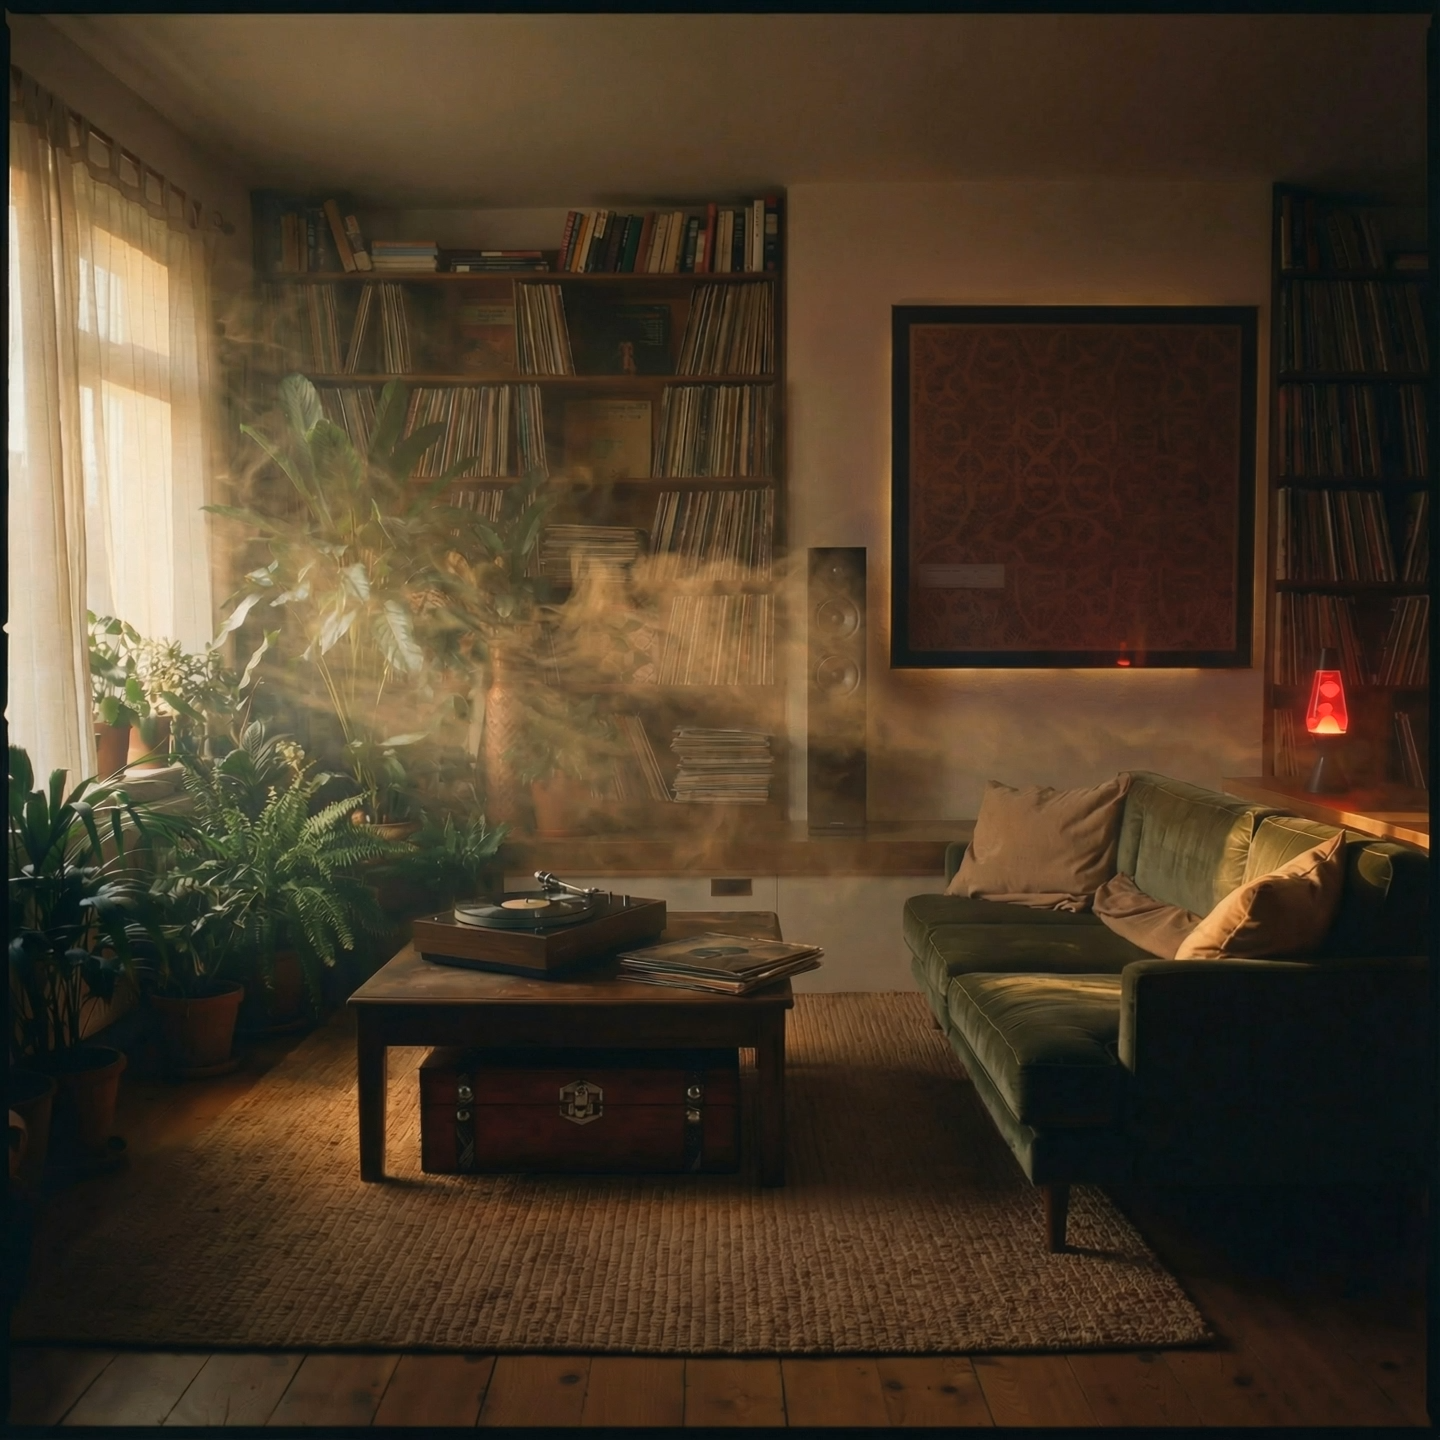
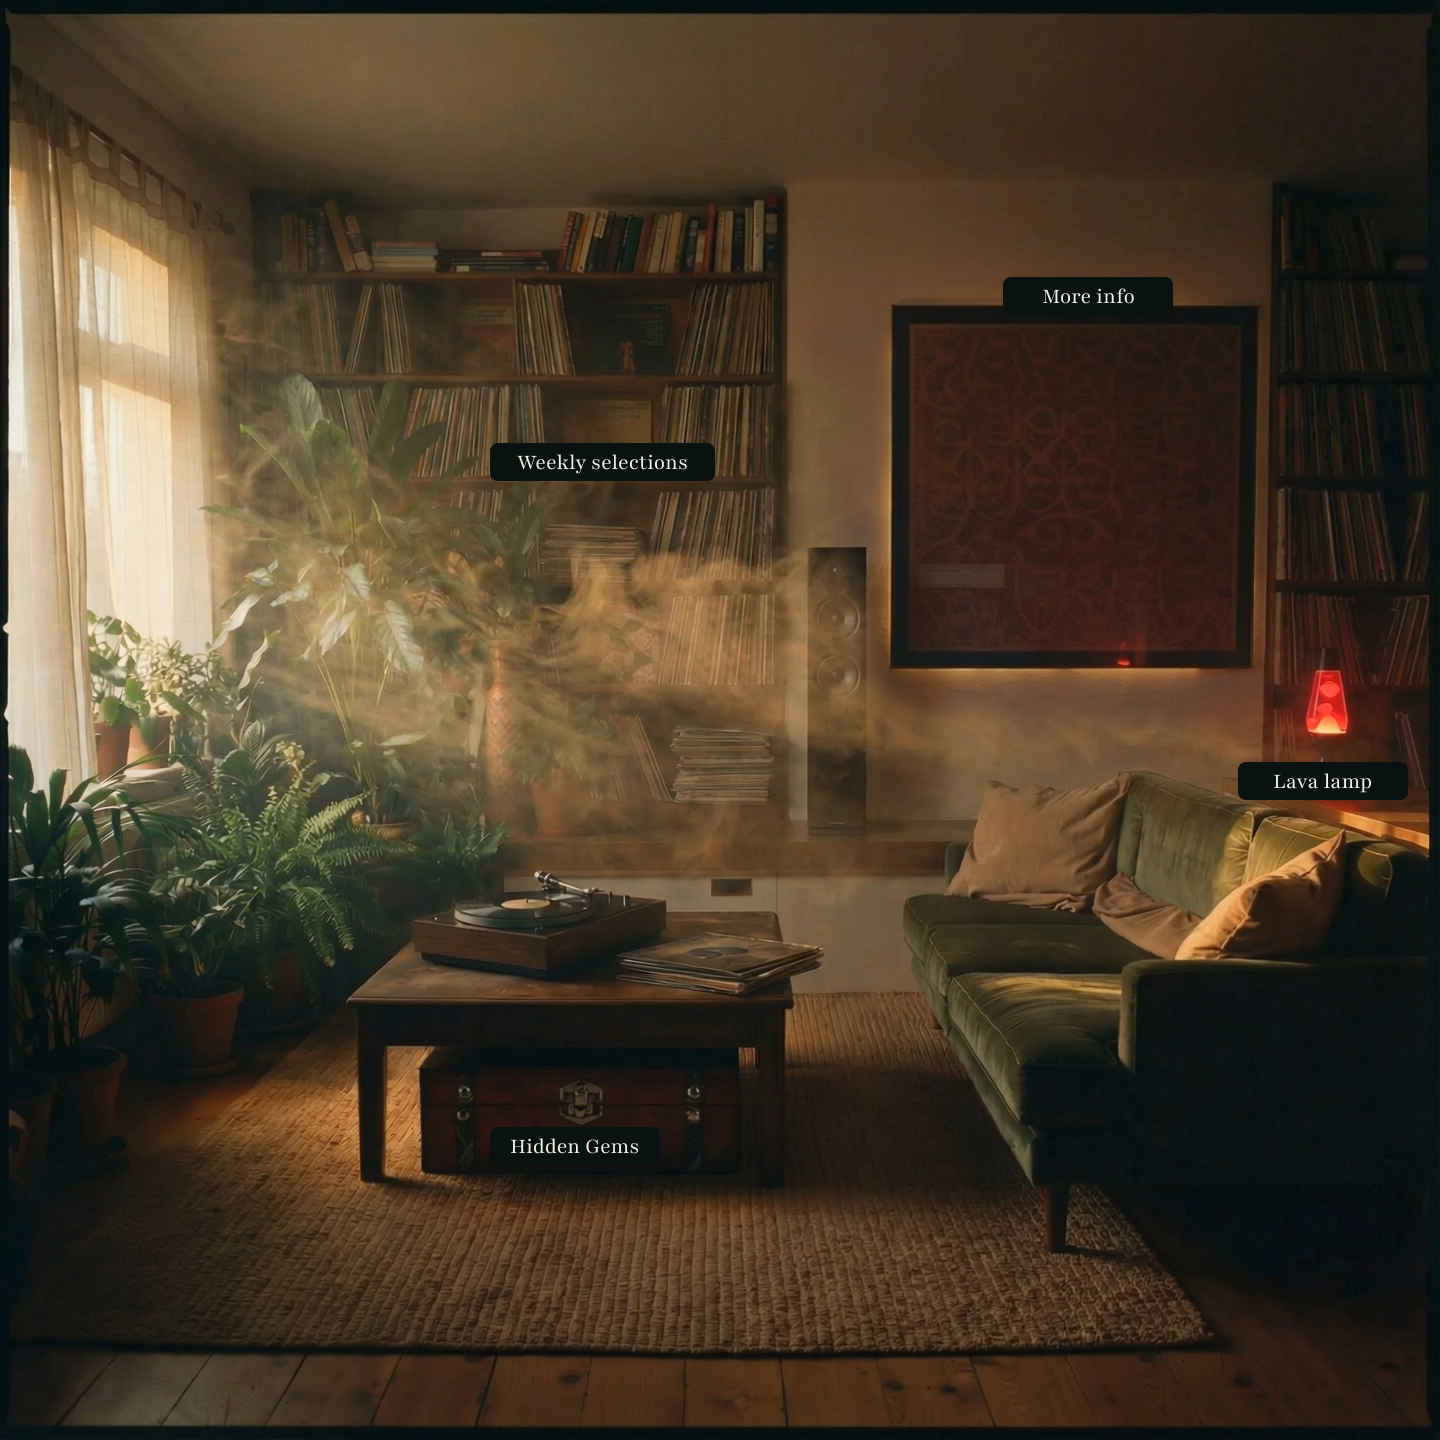
on mobile, dont show video bg and only fotograma png

diff --git a/src/components/Room/Output.js b/src/components/Room/Output.js
@@ -11,13 +11,15 @@ export default class Output {
     this.onShelfClick = _options.onShelfClick || null;
 
     this.onTipChange = _options.onTipChange || null;
+    this.isMobile = _options.isMobile || false;
 
     // Config
     this.BASE_VIDEO_URL = "/base.mp4";
+    this.STATIC_BG_URL = "/fotograma.png";
     this.CHEST_DIR = "/newchest/";
     this.CHEST_PREFIX = "frame_";
     this.CHEST_PAD = 4;
-    this.CHEST_COUNT = 60;
+    this.CHEST_COUNT = 70;
     this.CHEST_EXT = ".png";
     
     // Chest zone (normalized inside square viewport)
@@ -46,16 +48,22 @@ export default class Output {
     this.lastTime = performance.now();
     this.interactionsEnabled = true;
 
-    this.bitmapLoader = new THREE.ImageBitmapLoader();
-    this.bitmapLoader.setOptions({ imageOrientation: "flipY" });
-
     this.setRenderer();
     this.setScene();
     this.setCamera();
-    this.setupVideo();
+    if (this.isMobile) {
+      this.baseTex = new THREE.Texture(); // placeholder replaced async
+      this.setupStaticBackground();
+    } else {
+      this.setupVideo();
+    }
     this.setupMaterial();
     // this.setupDebugOverlay();
-    this.loadChestFrames();
+    if (!this.isMobile) {
+      this.loadChestFrames();
+    } else {
+      this.chestLoaded = true; // no chest on mobile
+    }
     
     this.updateViewport();
     this.animate();
@@ -268,6 +276,36 @@ export default class Output {
     } catch {}
   }
 
+  async setupStaticBackground() {
+    try {
+      const response = await fetch(this.STATIC_BG_URL);
+      if (!response.ok) throw new Error(`HTTP ${response.status}`);
+      const blob = await response.blob();
+      const objectUrl = URL.createObjectURL(blob);
+      await new Promise((resolve, reject) => {
+        const img = new Image();
+        img.onload = () => {
+          URL.revokeObjectURL(objectUrl);
+          const tex = new THREE.Texture(img);
+          tex.needsUpdate = true;
+          tex.minFilter = THREE.LinearFilter;
+          tex.magFilter = THREE.LinearFilter;
+          tex.generateMipmaps = false;
+          this.baseTex = tex;
+          if (this.material) {
+            this.material.uniforms.tBase.value = tex;
+            this.material.uniforms.tChest.value = tex;
+          }
+          resolve();
+        };
+        img.onerror = reject;
+        img.src = objectUrl;
+      });
+    } catch (error) {
+      console.error('[setupStaticBackground] Failed to load fotograma.png:', error);
+    }
+  }
+
   setupMaterial() {
 
     this.material = new THREE.ShaderMaterial({
@@ -342,8 +380,7 @@ export default class Output {
   }
 
   chestFrameUrl(i) {
-    const actualFrame = i;
-    return `${this.CHEST_DIR}${this.CHEST_PREFIX}${this.pad(actualFrame, this.CHEST_PAD)}${this.CHEST_EXT}`;
+    return `${this.CHEST_DIR}${this.CHEST_PREFIX}${this.pad(i + 1, this.CHEST_PAD)}${this.CHEST_EXT}`;
   }
 
   async loadChestFrames() {
@@ -369,12 +406,30 @@ export default class Output {
     if (this.chestFrames[index] || this.framesLoading.has(index)) return;
     this.framesLoading.add(index);
     try {
-      const bmp = await this.bitmapLoader.loadAsync(this.chestFrameUrl(index));
-      const tex = new THREE.Texture(bmp);
-      tex.needsUpdate = true;
-      tex.minFilter = THREE.LinearFilter;
-      tex.magFilter = THREE.LinearFilter;
-      tex.generateMipmaps = false;
+      const url = this.chestFrameUrl(index);
+      const response = await fetch(url);
+      if (!response.ok) throw new Error(`HTTP ${response.status} for ${url}`);
+      const blob = await response.blob();
+      const objectUrl = URL.createObjectURL(blob);
+
+      const tex = await new Promise((resolve, reject) => {
+        const img = new Image();
+        img.onload = () => {
+          URL.revokeObjectURL(objectUrl);
+          const t = new THREE.Texture(img);
+          t.needsUpdate = true;
+          t.minFilter = THREE.LinearFilter;
+          t.magFilter = THREE.LinearFilter;
+          t.generateMipmaps = false;
+          resolve(t);
+        };
+        img.onerror = () => {
+          URL.revokeObjectURL(objectUrl);
+          reject(new Error(`Image decode failed for frame ${index}`));
+        };
+        img.src = objectUrl;
+      });
+
       this.chestFrames[index] = tex;
     } catch (error) {
       console.error(`[loadFrame] Failed to load frame ${index}:`, error);

diff --git a/src/components/Room/Room.tsx b/src/components/Room/Room.tsx
@@ -51,6 +51,7 @@ const Room: React.FC = () => {
 
     outputRef.current = new Output({
       container: roomRef.current,
+      isMobile,
       onChestClick: () => !isSearchModalOpen && fadeTo('/hidden-gems'),
       onTrackCoverClick: () => {
         if (isSearchModalOpen) return;

diff --git a/src/components/Player/Player.tsx b/src/components/Player/Player.tsx
@@ -58,7 +58,6 @@ const Player = () => {
 
     const loadTracks = async () => {
       const data = isMember ? await fetchTracks() : await fetchFreeTracks();
-      console.log(data)
       setPlayerTrackList(data);
 
       if (data.length > 0) {

diff --git a/src/components/Player/Player.scss b/src/components/Player/Player.scss
@@ -23,7 +23,7 @@
   flex-direction: row;
   align-items: center;
   justify-content: space-between;
-  gap: var(--space-6);
+  gap: var(--space-3);
   position: fixed;
   left: 50%;
   bottom: var(--space-4);
